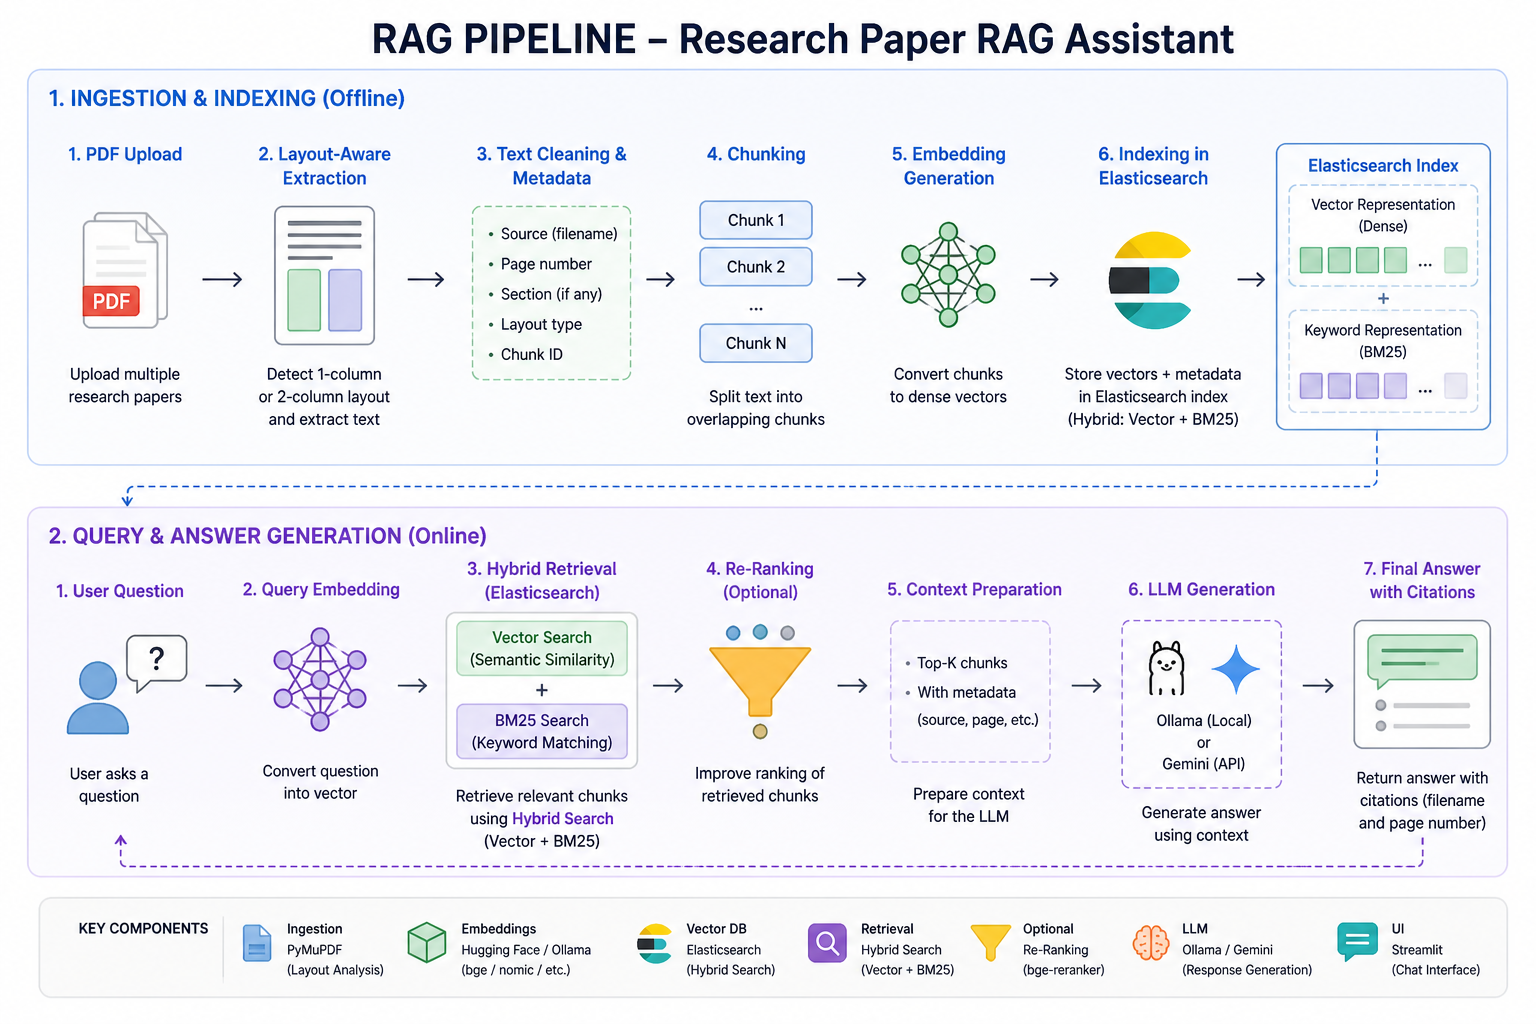
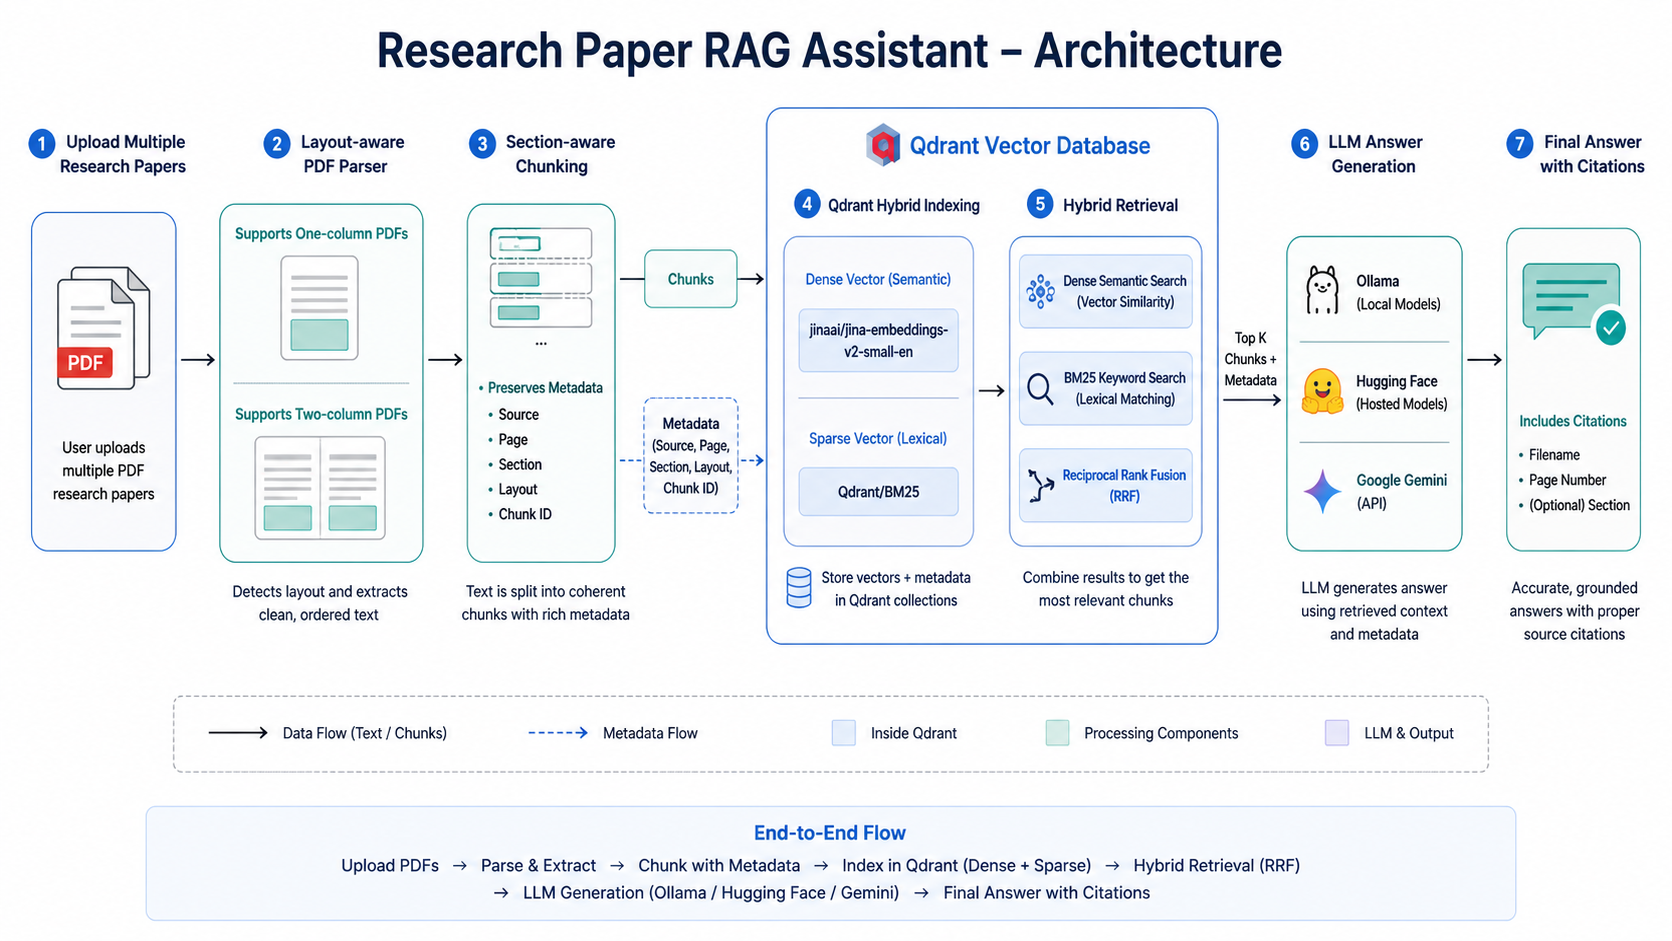
Update Hybrid Search & README file

Changed region(s): [[0.0, 0.0, 1.0, 0.9554], [0.2812, 0.1233, 0.4062, 0.1849], [0.8438, 0.8937, 0.9688, 0.9554]]

diff --git a/src/vector_db.py b/src/vector_db.py
@@ -6,12 +6,15 @@ from qdrant_client import QdrantClient, models
 
 QDRANT_URL = "http://localhost:6333"
 COLLECTION_NAME = "research_papers_rag"
+DENSE_VECTOR_NAME = "jina-small"
+DENSE_MODEL = "jinaai/jina-embeddings-v2-small-en"
 SPARSE_VECTOR_NAME = "bm25"
 BM25_MODEL = "Qdrant/bm25"
+QDRANT_TIMEOUT_SECONDS = 30
 
 
 def get_qdrant_client():
-    return QdrantClient(url=QDRANT_URL, timeout=5)
+    return QdrantClient(url=QDRANT_URL, timeout=QDRANT_TIMEOUT_SECONDS)
 
 
 def check_qdrant_connection() -> bool:
@@ -32,39 +35,48 @@ def reset_vector_db():
         client.delete_collection(collection_name=COLLECTION_NAME)
 
 
-def create_vector_db(chunks, embedding_model):
+def create_vector_db(chunks):
     if not check_qdrant_connection():
         raise ConnectionError("Qdrant is not running. Please start it with Docker first.")
 
     reset_vector_db()
 
     texts = [chunk.page_content for chunk in chunks]
-    dense_vectors = embedding_model.embed_documents(texts)
-
-    if not dense_vectors:
+    if not texts:
         raise ValueError("Cannot create vector database from an empty chunk list.")
 
     client = get_qdrant_client()
     client.create_collection(
         collection_name=COLLECTION_NAME,
-        vectors_config=models.VectorParams(
-            size=len(dense_vectors[0]),
-            distance=models.Distance.COSINE,
-        ),
+        vectors_config={
+            DENSE_VECTOR_NAME: models.VectorParams(
+                size=512,
+                distance=models.Distance.COSINE,
+            ),
+        },
         sparse_vectors_config={
             SPARSE_VECTOR_NAME: models.SparseVectorParams(
                 modifier=models.Modifier.IDF,
             ),
         },
     )
+    client.create_payload_index(
+        collection_name=COLLECTION_NAME,
+        field_name="source",
+        field_schema="keyword",
+    )
 
     points = []
-    for chunk, dense_vector in zip(chunks, dense_vectors):
+    for chunk in chunks:
+        source = chunk.metadata.get("source", "")
         points.append(
             models.PointStruct(
                 id=uuid.uuid4().hex,
                 vector={
-                    "": dense_vector,
+                    DENSE_VECTOR_NAME: models.Document(
+                        text=chunk.page_content,
+                        model=DENSE_MODEL,
+                    ),
                     SPARSE_VECTOR_NAME: models.Document(
                         text=chunk.page_content,
                         model=BM25_MODEL,
@@ -72,37 +84,37 @@ def create_vector_db(chunks, embedding_model):
                 },
                 payload={
                     "text": chunk.page_content,
+                    "source": source,
                     "metadata": chunk.metadata,
                 },
             )
         )
 
     client.upsert(collection_name=COLLECTION_NAME, points=points)
-    return QdrantHybridStore(client=client, embedding_model=embedding_model)
+    return QdrantHybridStore(client=client)
 
 
-def load_vector_db(embedding_model):
+def load_vector_db():
     if not check_qdrant_connection():
         raise ConnectionError("Qdrant is not running. Please start it with Docker first.")
 
-    return QdrantHybridStore(
-        client=get_qdrant_client(),
-        embedding_model=embedding_model,
-    )
+    return QdrantHybridStore(client=get_qdrant_client())
 
 
 class QdrantHybridStore:
-    def __init__(self, client, embedding_model):
+    def __init__(self, client):
         self.client = client
-        self.embedding_model = embedding_model
 
     def similarity_search(self, query, k=5):
-        dense_query = self.embedding_model.embed_query(query)
         results = self.client.query_points(
             collection_name=COLLECTION_NAME,
             prefetch=[
                 models.Prefetch(
-                    query=dense_query,
+                    query=models.Document(
+                        text=query,
+                        model=DENSE_MODEL,
+                    ),
+                    using=DENSE_VECTOR_NAME,
                     limit=5 * k,
                 ),
                 models.Prefetch(

diff --git a/app.py b/app.py
@@ -6,7 +6,6 @@ from html_template import css, user_template, bot_template, source_template
 
 from src.pdf_loader import load_pdf_documents
 from src.chunk_splitter import split_documents
-from src.embeddings import get_embedding_model
 from src.vector_db import (
     check_qdrant_connection,
     create_vector_db,
@@ -77,11 +76,6 @@ with st.sidebar:
         accept_multiple_files=True
     )
 
-    embedding_provider = st.selectbox(
-        "Embedding provider",
-        ["huggingface", "ollama"]
-    )
-
     llm_provider = st.selectbox(
         "LLM provider",
         ["huggingface", "ollama", "gemini"]
@@ -143,13 +137,10 @@ with st.sidebar:
 
                     chunks = split_documents(documents)
 
-                    embedding_model = get_embedding_model(embedding_provider)
-
-                    vectorstore = create_vector_db(chunks, embedding_model)
+                    vectorstore = create_vector_db(chunks)
 
                     st.session_state.vectorstore = vectorstore
                     st.session_state.vectorstore_ready = True
-                    st.session_state.embedding_provider = embedding_provider
 
                     st.success(f"Processed {len(uploaded_files)} PDFs")
                     st.info(f"Created {len(chunks)} chunks")
@@ -209,11 +200,7 @@ if question:
     else:
         with st.spinner("Thinking..."):
             try:
-                embedding_model = get_embedding_model(
-                    st.session_state.get("embedding_provider", embedding_provider)
-                )
-
-                vectorstore = load_vector_db(embedding_model)
+                vectorstore = load_vector_db()
                 st.session_state.vectorstore = vectorstore
                 llm = get_llm(
                     provider=llm_provider,

diff --git a/README.md b/README.md
@@ -8,7 +8,9 @@
   <img src="https://img.shields.io/badge/Python-3.10+-blue" />
   <img src="https://img.shields.io/badge/Framework-Streamlit-red" />
   <img src="https://img.shields.io/badge/RAG-LangChain-green" />
-  <img src="https://img.shields.io/badge/Search-Elasticsearch-yellow" />
+  <img src="https://img.shields.io/badge/Search-Qdrant-yellow" />
+  <img src="https://img.shields.io/badge/Hybrid-Dense%20%2B%20BM25-teal" />
+  <img src="https://img.shields.io/badge/Docker-2496ED?logo=docker&logoColor=fff" />
   <img src="https://img.shields.io/badge/LLM-Ollama%20%7C%20HuggingFace%20%7C%20Gemini-purple" />
   <img src="https://img.shields.io/badge/License-MIT-black" />
 </p>
@@ -17,16 +19,17 @@
 
 Research Paper RAG Assistant is an AI chatbot for asking questions over multiple research paper PDFs. Users can upload one or more papers, process them into searchable chunks, and ask natural language questions through a Streamlit interface.
 
-The system uses Retrieval-Augmented Generation (RAG) to retrieve relevant context before generating an answer. It supports both one-column and two-column PDF layouts, preserves source metadata, and uses hybrid search to combine semantic vector retrieval with keyword-based BM25 retrieval.
+The system uses Retrieval-Augmented Generation (RAG) to retrieve relevant context before generating an answer. It supports both one-column and two-column PDF layouts, preserves source metadata, and uses Qdrant hybrid search to combine dense semantic retrieval with sparse BM25 keyword retrieval.
 
 ## Features
 
 - Multi-PDF upload
 - Layout-aware PDF parsing for one-column and two-column documents
-- Text chunking with metadata preservation
-- Embedding generation for semantic search
-- Elasticsearch hybrid search using vector similarity and BM25 keyword retrieval
-- LLM support through Ollama and Google Gemini
+- Section-aware text chunking with metadata preservation
+- Qdrant hybrid search using dense vectors and BM25 sparse vectors
+- Reciprocal Rank Fusion (RRF) for combining semantic and keyword results
+- Fixed FastEmbed retrieval models for consistent indexing
+- LLM support through Ollama, Hugging Face, and Google Gemini
 - Source citations with filename and page number
 - Streamlit web interface
 
@@ -39,13 +42,11 @@ PDF Upload
    |
 Layout-Aware PDF Extraction
    |
-Text Chunking
+Section-Aware Chunking
    |
-Embedding Generation
+Qdrant Dense + BM25 Indexing
    |
-Elasticsearch Indexing
-   |
-Hybrid Retrieval
+Hybrid Retrieval with RRF
    |
 LLM Answer Generation
    |
@@ -57,27 +58,33 @@ Answer with Source Citations
 - Python
 - Streamlit
 - LangChain
-- Elasticsearch
-- Hugging Face embeddings
+- Qdrant
+- FastEmbed
+- Docker
 - Ollama
+- Hugging Face
 - Google Gemini
 
 ## Project Structure
 
 ```text
 .
-├── app.py
-├── README.md
-├── requirements.txt
-├── html_template.py
-├── data/
-└── src/
-    ├── chunk_splitter.py
-    ├── embeddings.py
-    ├── llm.py
-    ├── pdf_loader.py
-    ├── rag.py
-    └── vector_db.py
+|-- app.py
+|-- docker-compose.yaml
+|-- README.md
+|-- requirements.txt
+|-- html_template.py
+|-- assets/
+|-- data/
+|-- qdrant_data/
+|-- notebooks/
+`-- src/
+    |-- chunk_splitter.py
+    |-- embeddings.py
+    |-- llm.py
+    |-- pdf_loader.py
+    |-- rag.py
+    `-- vector_db.py
 ```
 
 ## Installation
@@ -108,19 +115,43 @@ Install dependencies:
 pip install -r requirements.txt
 ```
 
-Create a `.env` file for HuggingFace and Gemini support:
+Create a `.env` file for Hugging Face and Gemini support:
 
 ```env
 HUGGINGFACEHUB_API_TOKEN=your_huggingface_api_token_here
 GOOGLE_API_KEY=your_google_api_key_here
 ```
 
-## Run Elasticsearch
+## Run Qdrant
 
-Start Elasticsearch with Docker:
+Start Qdrant with Docker Compose:
 
 ```bash
-docker compose up
+docker compose up -d
+```
+
+Check that Qdrant is running:
+
+```bash
+docker compose ps
+```
+
+Qdrant will be available at:
+
+```text
+http://localhost:6333/dashboard
+```
+
+Qdrant data is persisted in:
+
+```text
+./qdrant_data
+```
+
+Stop Qdrant with:
+
+```bash
+docker compose down
 ```
 
 ## Run the Application
@@ -139,11 +170,12 @@ http://localhost:8501
 
 ## Configuration
 
-Embedding options:
+The embedding models are fixed for hybrid retrieval and are generated by Qdrant FastEmbed:
 
 ```text
-huggingface
-ollama
+Dense model: jinaai/jina-embeddings-v2-small-en
+Sparse model: Qdrant/bm25
+Fusion: Reciprocal Rank Fusion (RRF)
 ```
 
 LLM options:
@@ -167,14 +199,13 @@ These values can be adjusted in the relevant source files or through the Streaml
 
 ## Usage
 
-1. Start Elasticsearch.
+1. Start Qdrant with `docker compose up -d`.
 2. Start the Streamlit application.
 3. Upload one or more research paper PDFs.
-4. Select the embedding provider.
-5. Select the LLM provider.
-6. Click `Process PDFs`.
-7. Ask questions about the uploaded papers.
-8. Review the answer and cited sources.
+4. Select the LLM provider.
+5. Click `Process PDFs`.
+6. Ask questions about the uploaded papers.
+7. Review the answer and cited sources.
 
 ## Example Questions
 
@@ -220,6 +251,7 @@ What are the main limitations mentioned by the authors?
 <p align="center">
   <img src="assets/demo_1.png" alt="Demo 1" width="900"/>
   <img src="assets/demo_2.png" alt="Demo 2" width="900"/>
+  <img src="assets/demo_3.png" alt="Demo 3" width="900"/>
 </p>
 
 ## License
